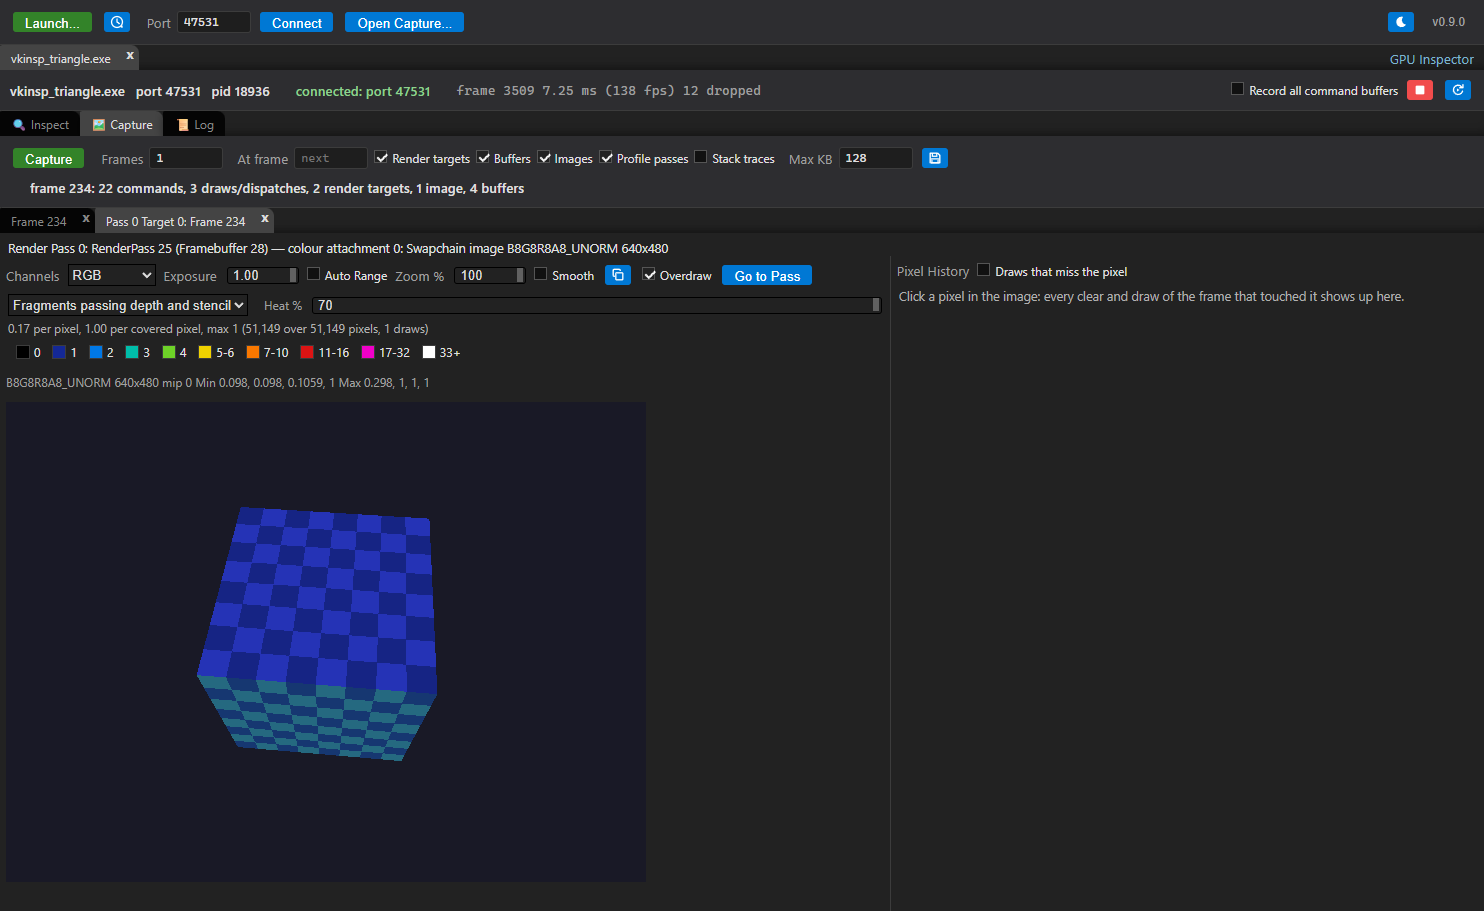
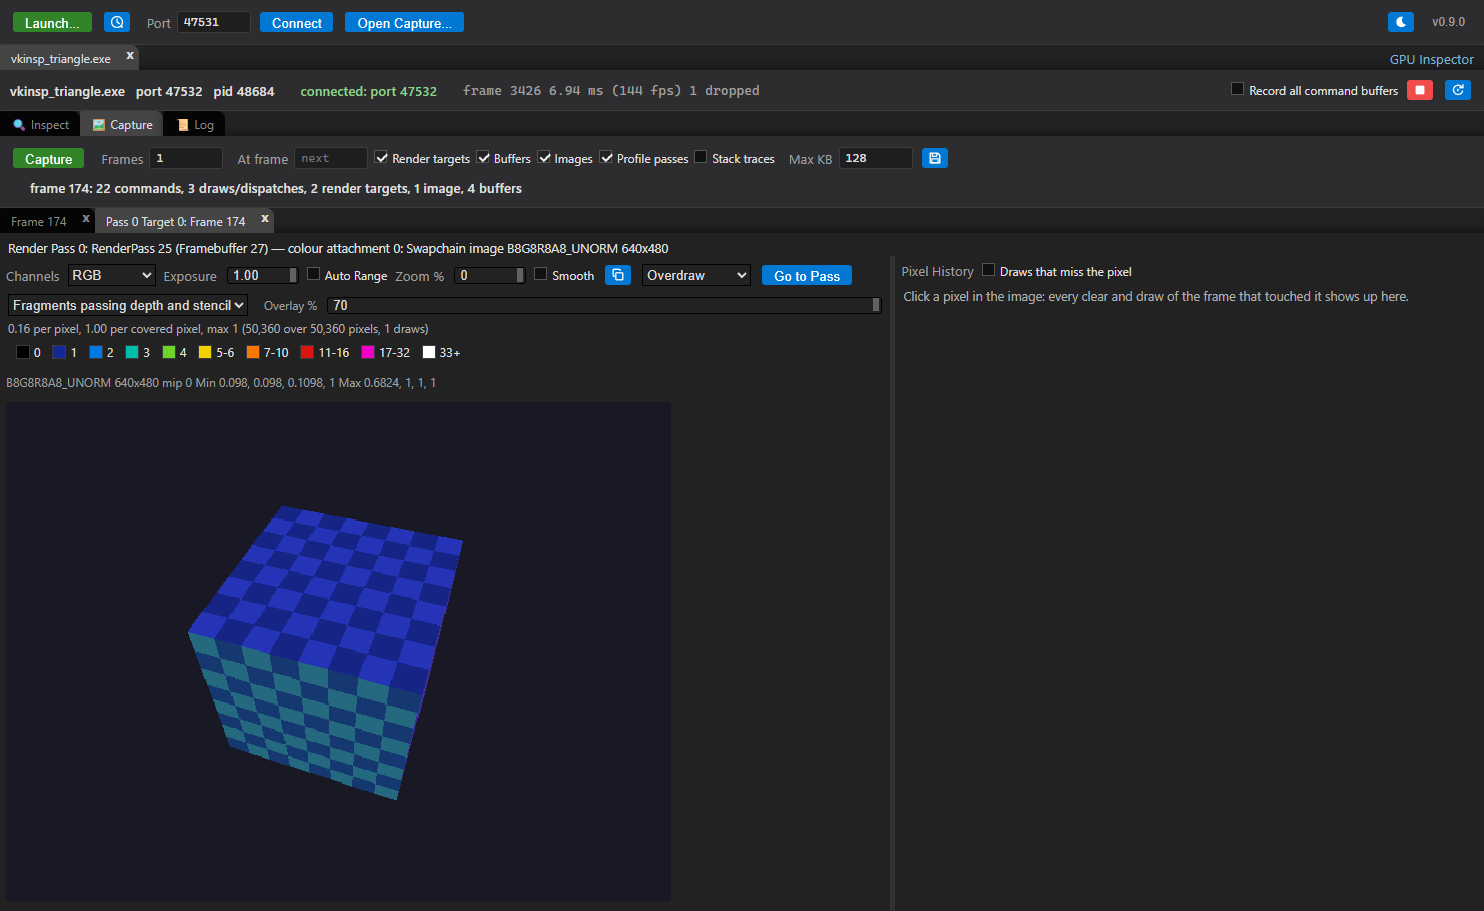
update docs

diff --git a/app/src/renderer/mesh_preview.ts b/app/src/renderer/mesh_preview.ts
@@ -101,6 +101,8 @@ export class MeshPreview {
   private _highlight: number | null = null;
   private _center = [0, 0, 0];
   private _radius = 1;
+  /** The largest half-extent of the framed box: what the view is fitted to (the radius is its corner). */
+  private _extent = 1;
   private _yaw = 0;
   private _pitch = 0;
   private _distance = 3;
@@ -170,10 +172,11 @@ export class MeshPreview {
 
     if (!keepView) {
       if (this._clip) {
-        // Framed on the view volume, and on the geometry when it strays far outside.
+        // Framed on the view volume, and on the geometry when it strays outside, up to four times the
+        // volume: vertices near w = 0 divide out to enormous coordinates that would shrink it to a dot.
         for (let k = 0; k < 3; k++) {
-          min[k] = Math.min(min[k], -1);
-          max[k] = Math.max(max[k], k === 2 ? 0 : 1);
+          min[k] = Math.max(Math.min(min[k], -1), -4);
+          max[k] = Math.min(Math.max(max[k], k === 2 ? 0 : 1), 4);
         }
       }
       if (min[0] > max[0]) {
@@ -182,6 +185,7 @@ export class MeshPreview {
       }
       this._center = [(min[0] + max[0]) / 2, (min[1] + max[1]) / 2, (min[2] + max[2]) / 2];
       this._radius = Math.max(1e-6, Math.hypot(max[0] - min[0], max[1] - min[1], max[2] - min[2]) / 2);
+      this._extent = Math.max(1e-6, (max[0] - min[0]) / 2, (max[1] - min[1]) / 2, (max[2] - min[2]) / 2);
       this.resetView();
     }
     if (gl && this._program) {
@@ -203,8 +207,8 @@ export class MeshPreview {
     // VS Out faces the render target; VS In is turned a little so its depth shows.
     this._yaw = this._clip ? 0 : 0.6;
     this._pitch = this._clip ? 0 : 0.35;
-    // Far enough for the bounding sphere to fill a 30 degree view: flatter than 45, so the volume reads as a box.
-    this._distance = this._radius / Math.sin(FOV / 2) * 1.05;
+    // Far enough for the mesh to fill most of a 30 degree view: flatter than 45, so the volume reads as a box.
+    this._distance = this._extent * 1.25 / Math.sin(FOV / 2);
     this._schedule();
   }
 

diff --git a/tools/doc_screenshots.py b/tools/doc_screenshots.py
@@ -10,8 +10,9 @@ The UI is the one in app/dist, so build it first (`npm run build` in app/, or `n
 
 Shots taken from capture files need those files: name a directory holding them with --captures
 (or GPU_INSPECTOR_DOC_CAPTURES). Shots whose capture is missing are skipped. The captures used
-are listed in SHOTS below; any .gpucap of the same shape works, since nothing here depends on
-their contents beyond looking like a real frame.
+are listed in SHOTS below. Most work from any .gpucap of the same shape, since they depend on
+nothing beyond looking like a real frame; the ones that name a draw by its command index
+(draw-overlay, mesh-view) need the capture they were taken from, or a draw index changed to suit.
 """
 
 import argparse
@@ -82,6 +83,19 @@ SHOTS = [
          delay_ms=25000, launch=True),
     Shot("pixel-history", ["--launch={triangle}", "--debug-capture", "--debug-view=pixel-history"],
          delay_ms=30000, launch=True),
+    # The Shader Flame Graph of a real frame, whose passes each run different shaders.
+    Shot("flame-graph", ["--debug-open={capture}", "--debug-view=flame"], delay_ms=15000,
+         capture="unity-ui.gpucap"),
+    # A draw overlay over a real frame: a Unity frame whose last passes draw a menu (unity-ui.gpucap,
+    # command 143 is the buttons' draw). Replayed, so slower.
+    Shot("draw-overlay", ["--debug-open={capture}", "--debug-view=overlay:highlight:143"],
+         delay_ms=25000, capture="unity-ui.gpucap"),
+    # The mesh tab: VS In of a real mesh (unity.gpucap, command 71 is the sky sphere), and VS Out of
+    # the test application's cube inside the view volume (replayed).
+    Shot("mesh-view", ["--debug-open={capture}", "--debug-view=mesh:in:71"], delay_ms=12000,
+         capture="unity.gpucap"),
+    Shot("mesh-output", ["--launch={triangle}", "--debug-capture", "--debug-view=mesh:out"],
+         delay_ms=22000, launch=True),
     # A shader with its embedded source, in a captured draw.
     Shot("shader-source", ["--debug-open={capture}", "--debug-command=4", "--debug-expand=Fragment Shader"],
          delay_ms=12000, capture="xrstack.gpucap"),

diff --git a/docs/REPORTS.md b/docs/REPORTS.md
@@ -6,6 +6,10 @@ The **Reports** menu in a capture answers questions about the whole frame instea
 Every report links back into the command list, so a number you want to understand is one click
 from the draw that produced it.
 
+Some answers are about one render target or one draw rather than the whole frame. They open in
+tabs beside the capture's own: the [render target tab](#the-render-target-tab) (overdraw, draw
+overlays and pixel history) and the [mesh view](#mesh-view).
+
 For the order to use them in when a frame is slow, see
 [Finding GPU bottlenecks](PROFILING.md).
 
@@ -43,7 +47,21 @@ discards, loop-invariant work that could be hoisted.
 The frame's GPU work as a flame graph: pass, then pipeline, then shader stage, then function, then
 source line. The pass level is measured time (from **Profile passes**); inside a pass the cost
 model splits it across the draws and the functions they ran. It also lists the hottest functions
-and lines of the frame.
+and lines of the frame. Clicking a frame zooms in; a draw frame selects the draw, and a shader
+frame opens the shader.
+
+![The Shader Flame Graph of a Unity frame: passes, pipelines and the fragment stages inside them, sized by GPU time](images/flame-graph.png)
+
+Inside a pass, the split between draws is modelled until something measures it:
+
+- **Profile passes** counters, where the capture has them, give each pass's fragment shader
+  invocations, and the fragment stages are weighted by those instead of by scissor area.
+- **Measure draws** (Vulkan) replays the capture on this machine's GPU with a timer and a pipeline
+  statistics query around every draw. Each draw then takes its share of the pass by its measured
+  time, and each stage its measured invocation count. The measurements are saved with the capture.
+  They also fill in the depth rejection figure for passes whose draws are recorded into secondary
+  command buffers, which the capture itself cannot measure (see
+  [Finding GPU bottlenecks](PROFILING.md)).
 
 Use it to find which shader function is eating a pass, rather than which pass is eating the frame.
 
@@ -81,7 +99,15 @@ It answers:
 - which passes write something that nothing ever reads
 - the frame's critical path
 
-## Overdraw
+## The render target tab
+
+**Open in Tab** under any of a pass's render targets (in a draw's details, or the pass's) shows the
+target in a tab of its own: the image at any zoom on the left, and the history of whichever pixel
+you click on the right. The **overlay list** in its toolbar draws over the image: **Overdraw**,
+**Highlight Draw**, **Depth Test** or **Wireframe**. **Reports → Overdraw** opens it on the frame's
+first measured pass with the overdraw on.
+
+### Overdraw
 
 How many fragments landed on each pixel, drawn over the pass's render target. Two numbers per
 pass: fragments that passed the depth and stencil tests, and every rasterized fragment. Hovering
@@ -91,9 +117,10 @@ shows the counts under the pointer.
 
 How it is measured depends on the API:
 
-- **Vulkan** — press **Measure Overdraw**. The capture is replayed on this machine's GPU, drawing
-  each pass again with a counting shader. The application does not need to be running, but a GPU
-  that can replay the capture does. See [Capture replay](REPLAY.md#overdraw).
+- **Vulkan** — pick **Overdraw** in the overlay list, or press **Measure Overdraw** in a pass's
+  details. The capture is replayed on this machine's GPU, drawing each pass again with a counting
+  shader. The application does not need to be running, but a GPU that can replay the capture does.
+  See [Capture replay](REPLAY.md#overdraw).
 - **Metal** — tick **Overdraw** in the capture bar before capturing. The measurement happens
   inside the captured frame.
 
@@ -101,11 +128,15 @@ The counting shader does not discard, so fragments the real shader would have th
 still counted and alpha-tested geometry counts as opaque. A multiview pass is counted in its first
 view only.
 
-## Draw-call overlays
+### Draw-call overlays
 
 Where one draw landed, over its pass's render target: pick **Highlight Draw**, **Depth Test** or
 **Wireframe** from the render target tab's overlay list, or press **Highlight Draw** under a draw's
-render targets. The draw list beside it steps through the pass's draws.
+render targets. The draw list beside it (with **‹** and **›**) steps through the pass's draws, and
+**Go to Draw** selects the draw in the command list. Hovering a pixel says what the draw did there,
+and the line under the list counts the pixels it covered, passed and had rejected.
+
+![Highlight Draw on a Unity frame: the menu buttons' draw in magenta, the rest of the frame darkened](images/draw-overlay.png)
 
 - **Highlight Draw** — the draw's pixels in a flat colour, the rest of the image darkened.
 - **Depth Test** — green where the draw's fragments passed the depth and stencil tests, red where
@@ -119,8 +150,13 @@ discards still shows as covered.
 ## Mesh view
 
 A draw's mesh, as RenderDoc's Mesh Viewer shows it: press **View Mesh** in a draw's details. The tab
-has a turnable wireframe over a table of the draw's vertices; clicking a row marks the vertex. The
-draw list steps through the pass's draws and keeps the view, so their meshes line up.
+has a wireframe preview over a table of the draw's vertices:
+
+- drag to turn the mesh, use the wheel to zoom, and double-click (or **Reset View**) to frame it again
+- click a row of the table to mark that vertex in the preview
+- the draw list steps through the pass's draws and keeps the view, so their meshes line up
+
+![The mesh view's VS In: a Unity sky sphere's 5,040 vertices as a wireframe, over the table of its positions](images/mesh-view.png)
 
 - **VS In** — the vertices the draw read, decoded from the captured vertex and index buffers, with
   the attributes named from the vertex shader. The preview draws the attribute that looks like a
@@ -131,11 +167,15 @@ draw list steps through the pass's draws and keeps the view, so their meshes lin
   no area and NaN positions. Vulkan only: the capture is replayed with the vertex shader writing
   its outputs to a buffer (see [Capture replay](REPLAY.md#mesh-output)).
 
-`get_mesh_output` gives Claude the same.
+![The mesh view's VS Out: the test application's cube in normalized device coordinates, inside the outline of the view volume, over its clip-space positions and outputs](images/mesh-output.png)
 
-## Pixel history
+VS Out is the place to look when a draw ran but nothing appeared. A mesh entirely outside the
+volume, or behind the eye, points at the matrices that placed it; triangles with no area at a scale
+of zero; NaN positions at a uniform that was never set. `get_mesh_output` gives Claude the same.
 
-Open a render target in a tab of its own and click a pixel. The **Pixel History** pane beside it
+### Pixel history
+
+Click a pixel in the render target tab. The **Pixel History** pane beside it
 lists every clear and draw that touched that pixel, in order, with what became of the draw's
 fragments — not reached, culled, discarded, failed the depth test, failed the stencil test,
 written — and the pixel's value and depth after each one.

diff --git a/docs/CAPTURE.md b/docs/CAPTURE.md
@@ -47,12 +47,17 @@ Selecting a command fills the right side with everything that was true at that p
 - **Descriptor sets** — every set bound at the draw and what each binding held, with buffers
   decoded into the types the shader declares. **Format** lets you override the type, and
   **Radix** the base.
+- **View Mesh** (a draw) — the draw's mesh in a tab of its own, as a wireframe and a table: the
+  vertices it read, and what its vertex shader wrote. See [Mesh view](REPORTS.md#mesh-view).
 - **Vertex and index buffers** — decoded into the attributes the pipeline declares, with their
   values.
 - **Push constants**.
 - **Render targets** — the pass's attachments as they were at the end of the pass. Clicking one
   opens the image viewer, with zoom, mip and layer selection, and the value of the texel under the
-  pointer.
+  pointer. **Open in Tab** shows the target in the
+  [render target tab](REPORTS.md#the-render-target-tab), where a pixel's history is one click and the
+  pass's overdraw or a draw's overlays can be drawn over the image; a draw's targets also have
+  **Highlight Draw**.
 - **Stack trace** — where the command was recorded, when stack traces were captured.
 - Commands recorded into a secondary command buffer say so, and link to it.
 
@@ -64,8 +69,13 @@ Anything the frame's analysis flagged about a command is shown with it, linked t
 ## Reports
 
 The **Reports** menu answers questions about the whole frame instead of one command: Frame Stats,
-Analyze Shaders, Shader Flame Graph, GPU Bottlenecks, Render Graph and Overdraw. See
+Analyze Shaders, Shader Flame Graph, GPU Bottlenecks, Render Graph and Overdraw. Pixel history,
+draw overlays and the mesh view answer questions about one pixel or one draw. See
 [Reports](REPORTS.md).
+
+Overdraw, pixel history, draw overlays, the mesh view's VS Out and **Measure draws** replay a Vulkan
+capture on this machine's GPU with `vkinsp_replay`, which the Windows and Linux installers include. The application
+does not need to be running; see [Capture replay](REPLAY.md).
 
 ## Capture files
 

diff --git a/README.md b/README.md
@@ -30,6 +30,15 @@ follow the same way. The feature list below describes the Vulkan layer.
   depth test is rejecting work, each with what usually causes it. Both APIs; the counters come
   from a pipeline statistics query on Vulkan and Metal's counter sets on macOS.
   [docs/PROFILING.md](docs/PROFILING.md) is the walkthrough.
+* **Replay** — a saved Vulkan capture is replayed on this machine's GPU, without the application,
+  to answer what the capture alone cannot:
+  - how many times each pixel was shaded (overdraw)
+  - every draw that touched a pixel, and what became of its fragments (pixel history)
+  - where one draw landed: highlighted, its depth test, its wireframe (draw overlays)
+  - what the vertex shader wrote, as a wireframe and a table beside the vertices it read (mesh view)
+  - each draw's GPU time and counters, for the Shader Flame Graph
+
+  [docs/REPORTS.md](docs/REPORTS.md) shows each.
 * **Render graph** — the same frame as a dependency graph: which pass produced what each pass
   reads, drawn as a resource lifetime chart with the selected pass's producers and consumers
   beside it, its GPU time and the frame's critical path, what it reads from before the capture,

diff --git a/docs/MCP.md b/docs/MCP.md
@@ -49,6 +49,21 @@ Or use a command:
 | `/gpu-inspector:compare <before> <after>` | Says whether a change moved the numbers it should have |
 | `/gpu-inspector:live <exe> [args]` | Launches an application, captures it, and tries shader changes while it runs |
 
+## Replaying a capture
+
+A few tools replay a Vulkan capture on this machine's GPU, the way the app does, and take seconds
+rather than milliseconds:
+
+- `get_overdraw` — fragments per pixel, for every pass or as one pass's heatmap
+- `get_pixel_history` — every clear and draw that touched a pixel, and what became of each draw's
+  fragments
+- `get_mesh_output` — what a draw's vertex shader wrote: vertices behind the eye, primitives
+  outside the view volume, triangles with no area
+- `get_shader_flame_graph` — measures every draw the first time it is asked
+
+They need `vkinsp_replay`: GPU Inspector's Windows and Linux installers put it beside the layer, and a checkout
+builds it (`cmake --build build --target vkinsp_replay`). See [Capture replay](REPLAY.md).
+
 ## What to turn on before capturing
 
 Claude can only read what the capture recorded, so in GPU Inspector, before you capture:

diff --git a/claude-plugin/README.md b/claude-plugin/README.md
@@ -104,7 +104,7 @@ capture.
 | `list_textures`, `read_texture` | Read-back images, as PNG plus statistics and texel values |
 | `read_buffer`, `read_vertices` | Buffer ranges as scalars or GLSL structs; a draw's vertices with bounds |
 | `get_shader`, `analyze_shaders` | Reflection, embedded source, GLSL/HLSL/MSL, disassembly, static cost analysis |
-| `get_shader_flame_graph` | The frame's shading work by pass, pipeline or draw, stage, function and source line, and its hottest functions and lines |
+| `get_shader_flame_graph` | The frame's shading work by pass, pipeline or draw, stage, function and source line, and its hottest functions and lines (a Vulkan capture's draws are measured by replay on first use) |
 | `set_search_paths` | Where shader sources and unstripped libraries are, for shaders without embedded text and stack frames without symbols |
 | `launch_app`, `attach_app`, `stop_app` | Start an application with the capture library (or connect to one listening), end it |
 | `list_android_devices`, `launch_android_app` | Android devices and packages over adb; start a debuggable package with the Vulkan layer |

diff --git a/docs/INSPECT.md b/docs/INSPECT.md
@@ -71,7 +71,9 @@ marked `[edited]` in its heading.
 
 GLSL, HLSL and SPIR-V assembly can all be edited; which compiler is needed depends on which one
 you edit (`glslangValidator`, `dxc`, `spirv-as`). A shader with embedded source is edited as that
-source.
+source. `#include` directives in GLSL and HLSL are resolved against the directories in
+**Source roots** ([shader sources](VULKAN.md#shader-sources)), so a shader split across files
+compiles as it did in your build.
 
 This works for Vulkan on the desktop and on [Android](ANDROID.md), where the shader is compiled
 here and sent to the device. It does not apply to [Metal](METAL.md).
